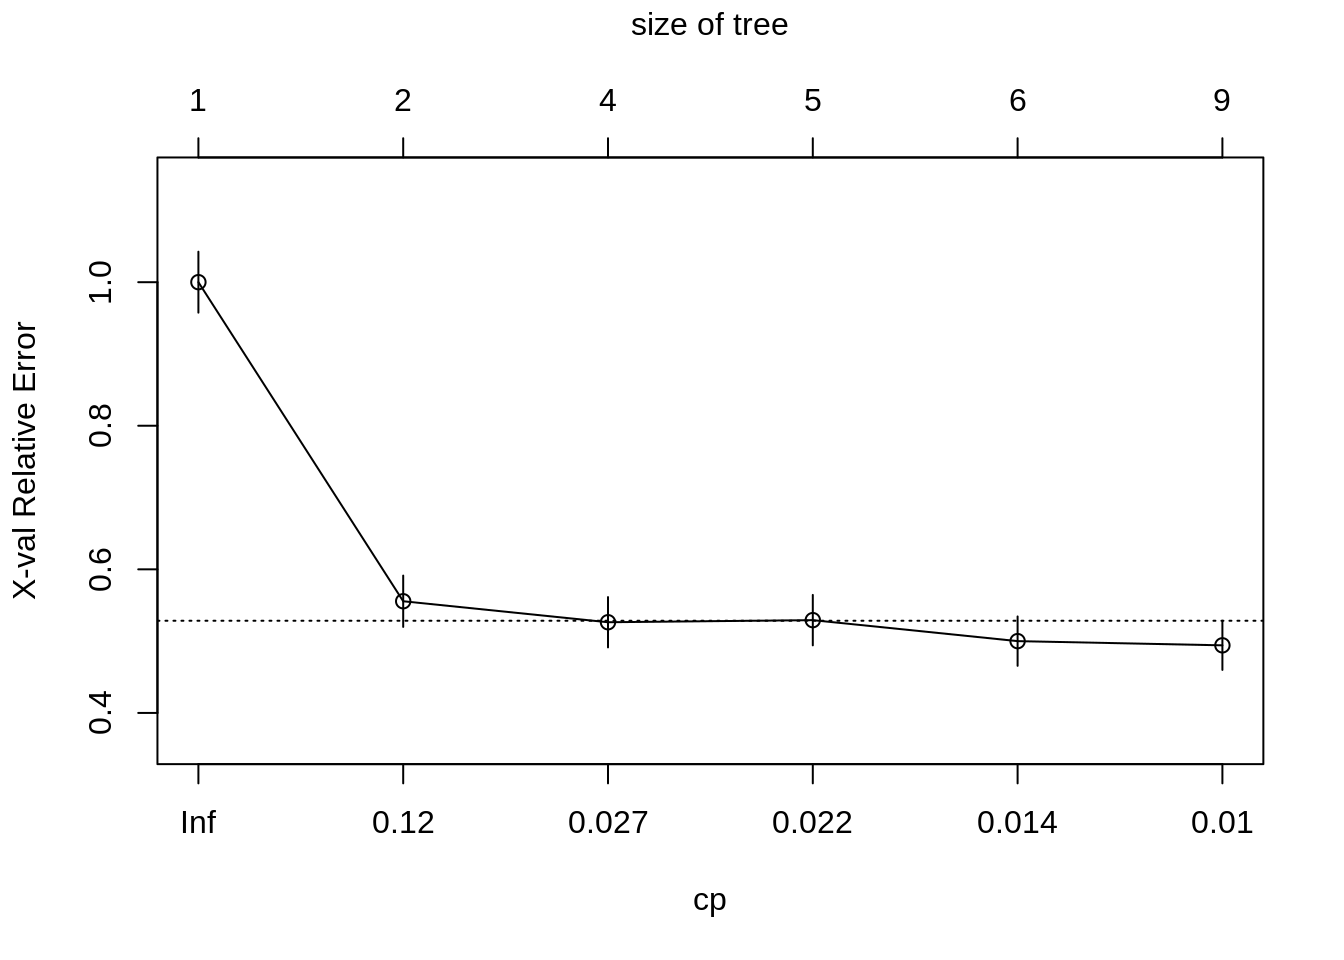
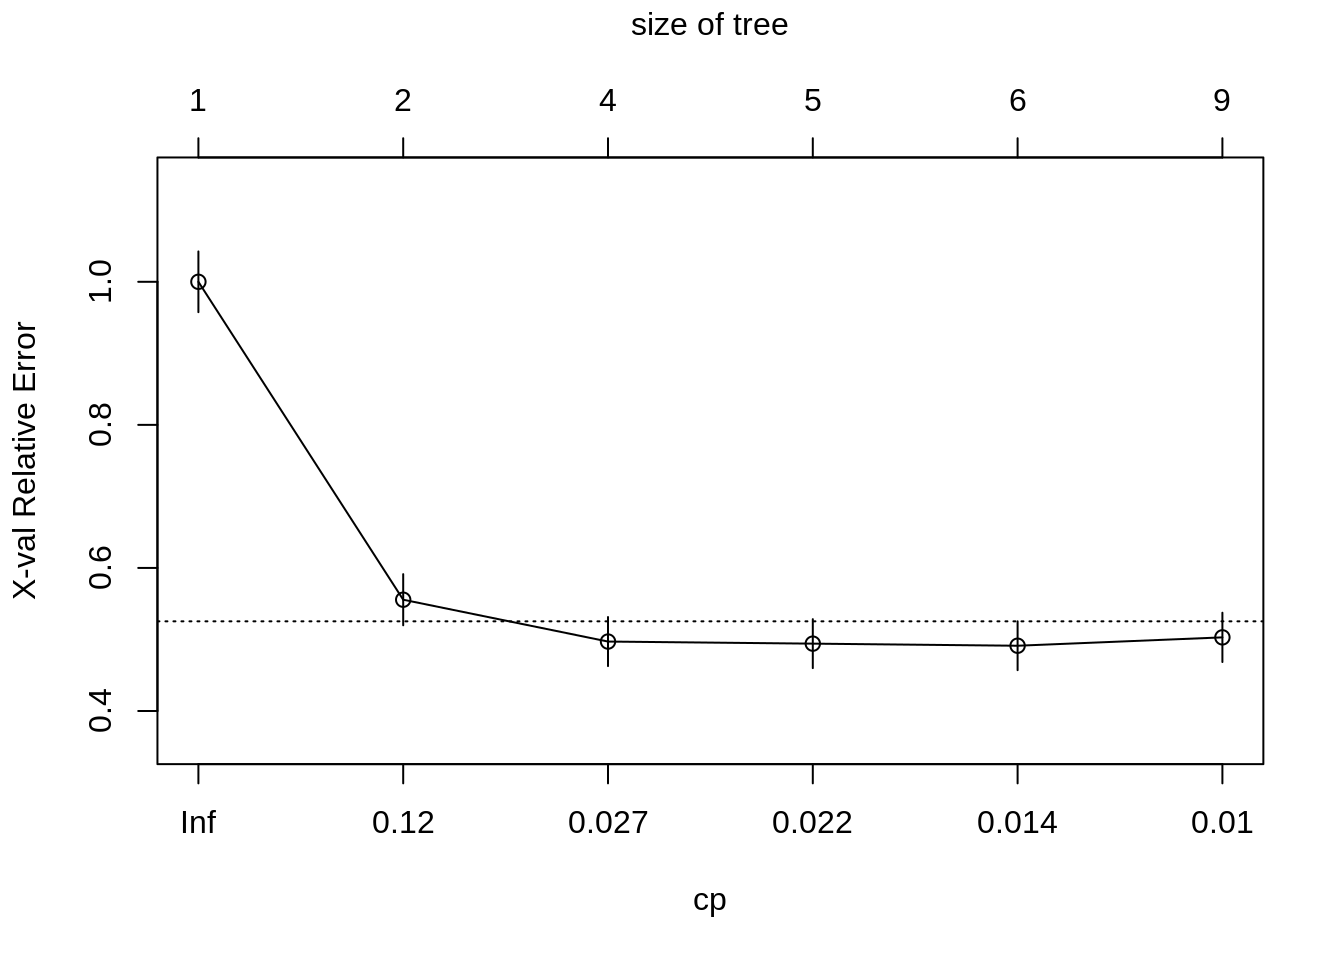
Deploy lebebr01/stat_thinking to github.com/lebebr01/stat_thinking.git:master

diff --git a/docs/classification.html b/docs/classification.html
@@ -329,10 +329,10 @@ titanic &lt;-<span class="st"> </span><span class="kw">bind_rows</span>(titanic_
 ##         CP nsplit rel error  xerror     xstd
 ## 1 0.444444      0   1.00000 1.00000 0.042446
 ## 2 0.030702      1   0.55556 0.55556 0.035750
-## 3 0.023392      3   0.49415 0.52632 0.035043
-## 4 0.020468      4   0.47076 0.52924 0.035116
-## 5 0.010234      5   0.45029 0.50000 0.034372
-## 6 0.010000      8   0.41813 0.49415 0.034217</code></pre>
+## 3 0.023392      3   0.49415 0.49708 0.034295
+## 4 0.020468      4   0.47076 0.49415 0.034217
+## 5 0.010234      5   0.45029 0.49123 0.034140
+## 6 0.010000      8   0.41813 0.50292 0.034448</code></pre>
 <div class="sourceCode"><pre class="sourceCode r"><code class="sourceCode r"><span class="kw">plotcp</span>(class_tree)</code></pre></div>
 <p><img src="05-classification_files/figure-html/unnamed-chunk-6-1.png" width="672" /></p>
 <div class="sourceCode"><pre class="sourceCode r"><code class="sourceCode r">prune_class_tree &lt;-<span class="st"> </span><span class="kw">prune</span>(class_tree, <span class="dt">cp =</span> .<span class="dv">02</span>)

diff --git a/docs/05-classification.md b/docs/05-classification.md
@@ -249,10 +249,10 @@ printcp(class_tree)
 ##         CP nsplit rel error  xerror     xstd
 ## 1 0.444444      0   1.00000 1.00000 0.042446
 ## 2 0.030702      1   0.55556 0.55556 0.035750
-## 3 0.023392      3   0.49415 0.52632 0.035043
-## 4 0.020468      4   0.47076 0.52924 0.035116
-## 5 0.010234      5   0.45029 0.50000 0.034372
-## 6 0.010000      8   0.41813 0.49415 0.034217
+## 3 0.023392      3   0.49415 0.49708 0.034295
+## 4 0.020468      4   0.47076 0.49415 0.034217
+## 5 0.010234      5   0.45029 0.49123 0.034140
+## 6 0.010000      8   0.41813 0.50292 0.034448
 ```
 
 ```r
